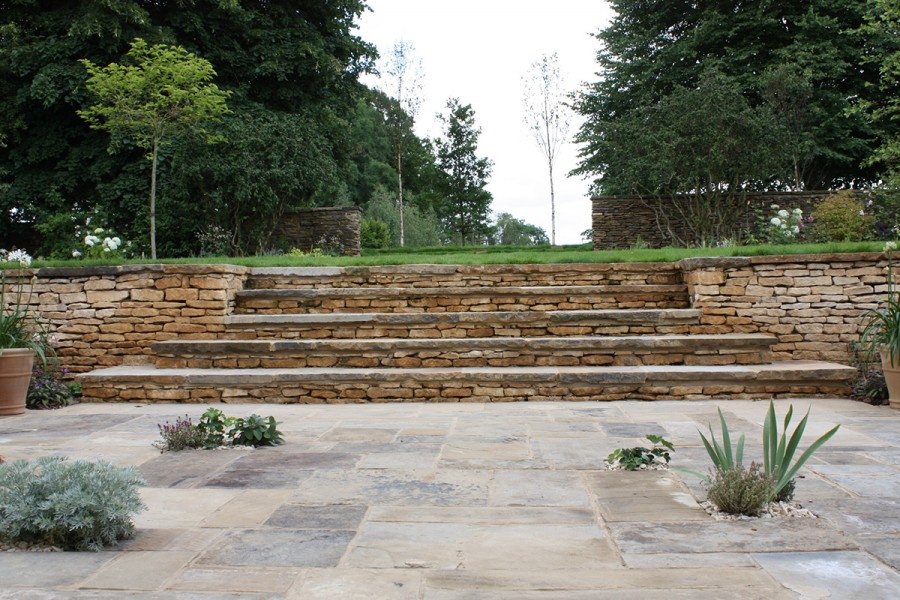
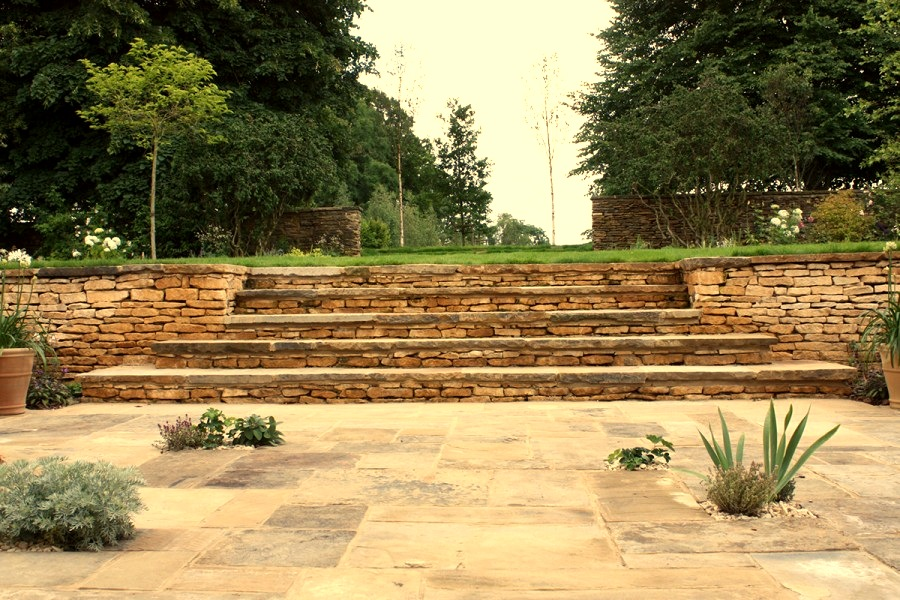
Golden-hour grade on Cotswolds slides, lighter veil
Claude-Session: https://claude.ai/code/session_0116ez5pmVSqE13isgJh2Uw5

diff --git a/assets/css/site.css b/assets/css/site.css
@@ -393,3 +393,5 @@ body{background:var(--chalk)}
 @keyframes slide6{0%{opacity:0;transform:scale(1)}3.5%{opacity:1}16.7%{opacity:1}20%{opacity:0;transform:scale(1.06)}100%{opacity:0;transform:scale(1.06)}}
 .stage__slide{animation:slide6 42s linear infinite;animation-delay:calc(var(--i) * 7s - 1.7s)}
 @media (prefers-reduced-motion:reduce){.stage__slide{animation:none;opacity:0}.stage__slide:first-of-type{opacity:1}}
+
+.stage--photo .stage__veil{background:linear-gradient(rgba(220,150,70,.07),rgba(220,150,70,.07)),linear-gradient(90deg,rgba(40,24,12,.5) 0%,rgba(40,24,12,.24) 55%,rgba(40,24,12,.04) 100%)}
